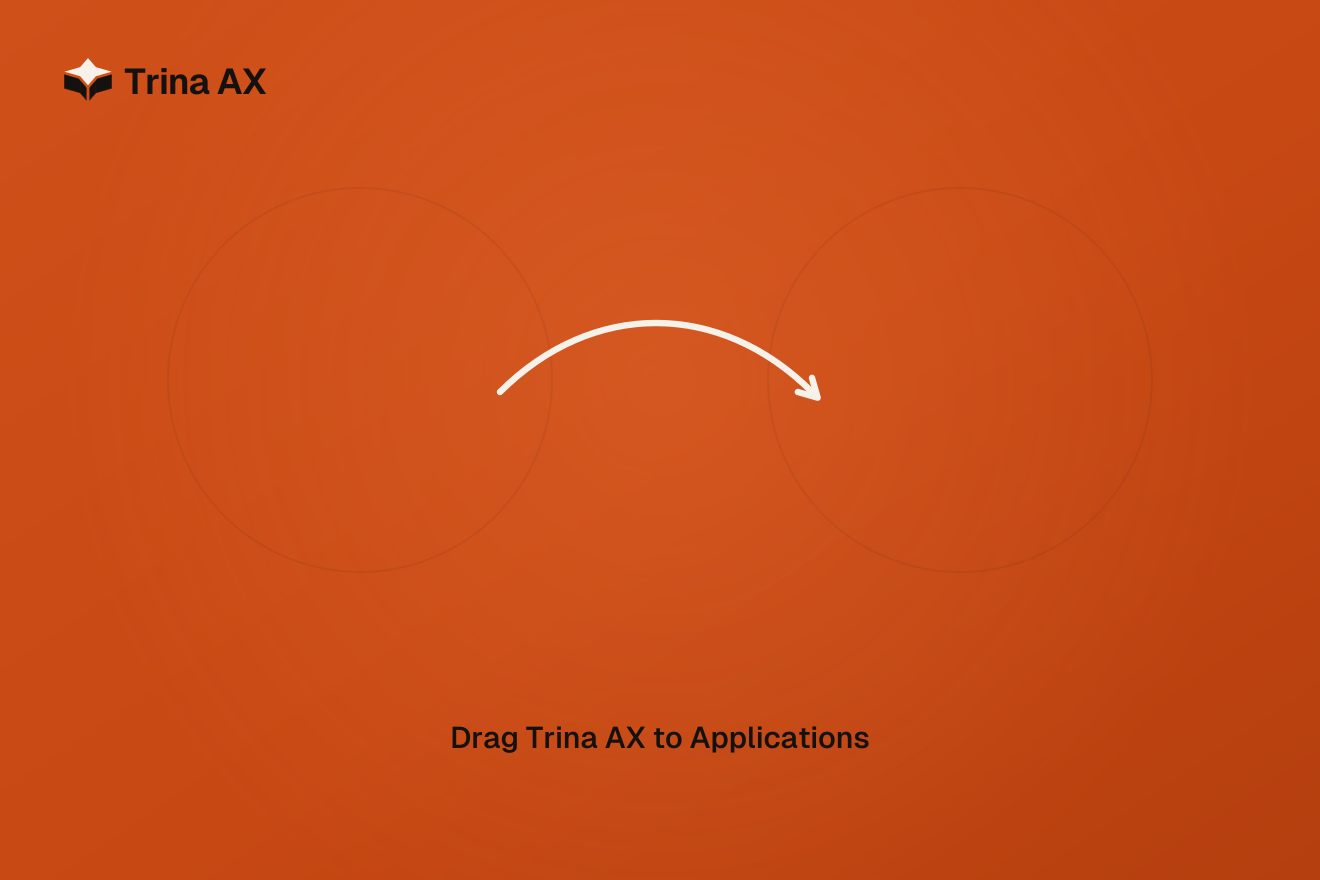
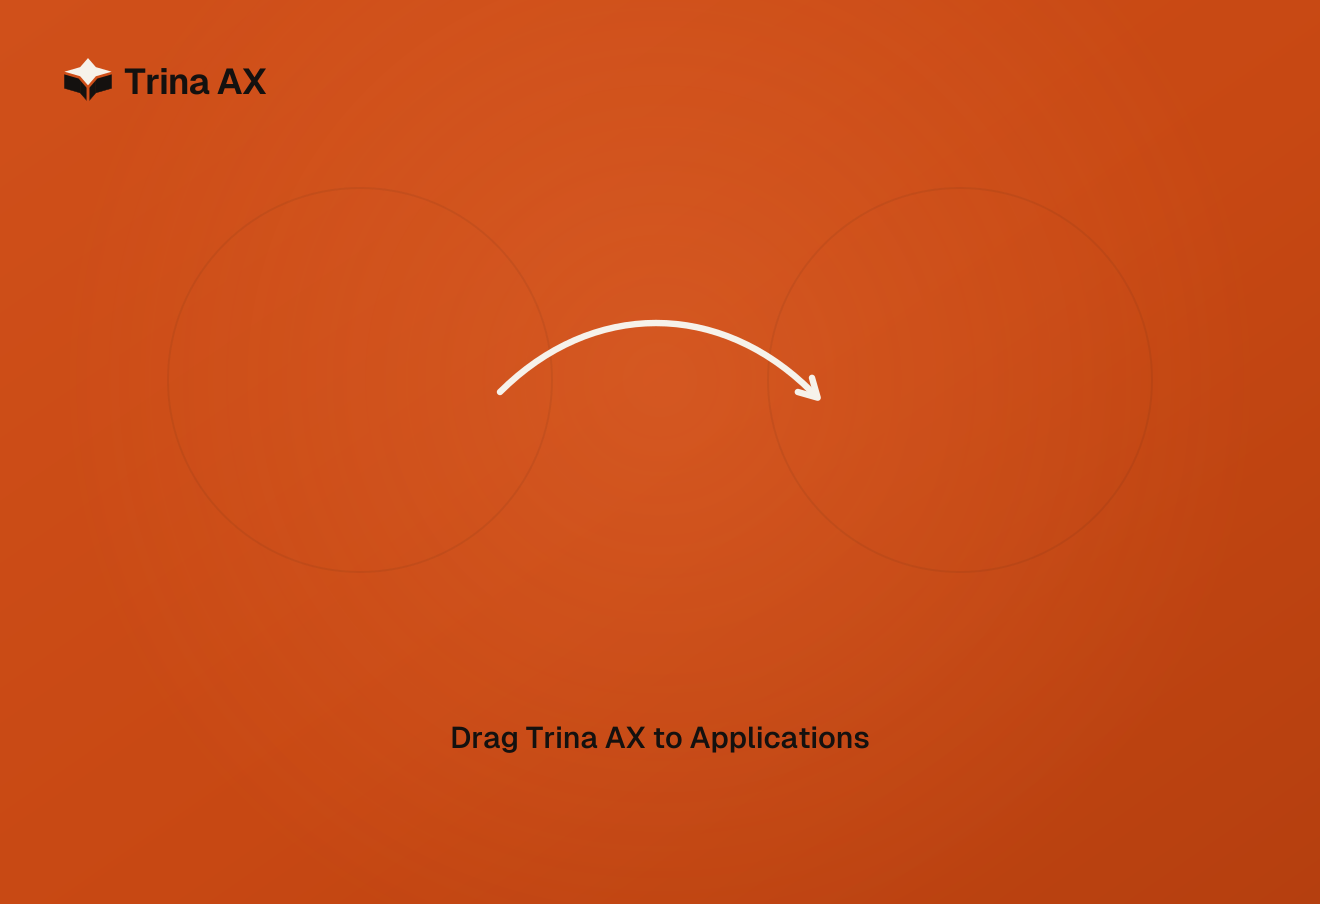
Mac dmg: on electron-builder 26.15.3, the window takes the picture's size
26.15.3 makes the window the background picture's size, title bar included, and ignores `window` when there is a
background. So no `window`, and the canvas is 660×452: the 420 points of art and 32 points of plain orange.

Changed region(s): [[0.3417, 0.7977, 0.6523, 0.8591], [0.3727, 0.3375, 0.6212, 0.4602], [0.0311, 0.0614, 0.2174, 0.1227]]

diff --git a/tests/unit/e-desktop-common.test.ts b/tests/unit/e-desktop-common.test.ts
@@ -1001,7 +1001,7 @@ describe('quitting', () => {
 
 describe('the Mac dmg window', () => {
   test('opens on the Trina background with the two icons over its spots', async () => {
-    type Dmg = { background: string; window: { width: number; height: number }; iconSize: number; contents: { x: number; y: number; type: string; path?: string }[] }
+    type Dmg = { background: string; window?: unknown; iconSize: number; contents: { x: number; y: number; type: string; path?: string }[] }
     const base = (await import('../../desktop/electron-builder.config')).default as { dmg: Dmg }
     const dmg = base.dmg
     const size = (f: string) => {
@@ -1012,10 +1012,10 @@ describe('the Mac dmg window', () => {
     expect(dmg.background).toBe('build-resources/background.png')
     const one = size(dmg.background), two = size(dmg.background.replace('.png', '@2x.png'))
     expect(two).toEqual({ w: one.w * 2, h: one.h * 2 })
-    // the window is as wide as the art; its height counts the title bar (32 points on macOS 26) and the art is taller
-    // than what shows, so no white edge on any system
-    expect(dmg.window.width).toBe(one.w)
-    expect(one.h).toBeGreaterThanOrEqual(dmg.window.height - 32)
+    // electron-builder makes the window the picture's size, title bar (32 points on macOS 26) included: no `window`, and
+    // the picture is the 420 points of art plus 32
+    expect(dmg.window).toBeUndefined()
+    expect(one).toEqual({ w: 660, h: 420 + 32 })
     // the app on the left, Applications on the right, on the art's two spots (scripts/dmg-background.svg)
     expect(dmg.contents).toEqual([
       { x: 180, y: 190, type: 'file' },

diff --git a/desktop/electron-builder.config.ts b/desktop/electron-builder.config.ts
@@ -63,14 +63,10 @@ export default {
     sign: false,
     title: `${PRODUCT.displayName} \${version}`,
     artifactName: `${A}-\${version}-mac-\${arch}.\${ext}`,
-    // the window it opens on: scripts/dmg-background.svg rendered at 660×440 and 1320×880 (background@2x.png, which
-    // electron-builder joins with this file into one retina TIFF). Finder takes the height with the title bar (32 points
-    // on macOS 26), so 452 shows the art's 420; the art runs 20 lower for the shorter title bar of older systems. The icon
-    // centres (points from the top left of the art) sit over the art's two spots.
+    // the window it opens on: scripts/dmg-background.svg rendered at 660×452 and 1320×904 (background@2x.png, which
+    // electron-builder joins with this file into one retina TIFF). electron-builder makes the window the picture's size,
+    // title bar included, so no `window` here; the art's spots are the icon centres below (points from its top left).
     background: 'build-resources/background.png',
-    // No x/y: with a background, electron-builder 26.0.12 ignores them and writes x 400, y (1440 - height) / 2 from the
-    // bottom of the screen; on a smaller screen macOS keeps the title bar below the menu bar.
-    window: { width: 660, height: 452 },
     iconSize: 128,
     iconTextSize: 12,
     contents: [

diff --git a/docs/AGENTS/plan/20261115-1422-dmg-background.md b/docs/AGENTS/plan/20261115-1422-dmg-background.md
@@ -18,10 +18,10 @@ wordmark top left, a cream arrow from the app to Applications, and "Drag Trina A
 In:
 - `desktop/scripts/dmg-background.svg`: the source art (text outlined from Geist, so it renders with no fonts), with
   the render command in the file, as `trina-icon.svg` does.
-- `desktop/build-resources/background.png` (660×440) and `background@2x.png` (1320×880), rendered with rsvg-convert.
-  The art is laid out on 660×420; the canvas runs 20 points lower in plain orange (see Result).
+- `desktop/build-resources/background.png` (660×452) and `background@2x.png` (1320×904), rendered with rsvg-convert.
+  The art is laid out on 660×420; the canvas runs 32 points lower in plain orange (see Result).
 - Base `dmg` settings in `desktop/electron-builder.config.ts` (the Developer ID config spreads them): background,
-  window size, icon size, label size, and the two icons' positions over the art.
+  icon size, label size, and the two icons' positions over the art.
 - The orange is a mid tone on purpose: Finder writes the icon names in black in light mode and white in dark mode, and
   the background cannot follow, so the names must read on it both ways (about 4.5:1 each).
 
@@ -46,13 +46,13 @@ sizes, the window and the icon spots); the dmg build and the two screenshots.
 
 ## Result
 
-Built as planned, with one change found in the real build (`dist:mac:arm64` on macOS 26.6, mounted read-only from a
-copy):
-- Finder takes the window size with the title bar: with 660×420 its window was 660×420 in all, so the art's bottom was
-  cut. The title bar is 32 points on macOS 26 (28 before), so the window is 660×452 and the canvas is 660×440, the extra
-  20 points plain orange, so an older system shows a little more orange instead of a white edge.
-- electron-builder 26.0.12 joins `background.png` and `background@2x.png` into one TIFF with `tiffutil -cathidpicheck`
-  (`.background/*.tiff` in the dmg holds 660×440 and 1320×880); the dmg's `.DS_Store` has the window bounds, icon size
-  128, label size 12 and the two icons at (180,190) and (480,190).
-- With a background, electron-builder ignores the window's x/y, so they are not set.
+Built as planned, with two changes found in real builds (mounted read-only from a copy, macOS 26.6):
+- electron-builder 26.0.12 makes the dmg as APFS with an old dmgbuild, and Finder showed no background at all, in our
+  dmg and in the released 0.5.7 dmg. With 26.15.3 (HFS+, newer dmgbuild) it shows. So this branch sits on the
+  electron-builder 26.15.3 update (its own PR, `chore/electron-builder-26-15`).
+- Finder counts the title bar in the window size (32 points on macOS 26, 28 before), and 26.15.3 makes the window the
+  picture's size and ignores `window` when there is a background. So there is no `window`, and the canvas is 660×452:
+  the 420 points of art and 32 points of plain orange below, so an older system shows a little more orange.
+- electron-builder joins `background.png` and `background@2x.png` into one TIFF (`tiffutil -cathidpicheck`); the
+  dmg's `.DS_Store` has icon size 128, label size 12 and the two icons at (180,190) and (480,190).
 - Geist's notice is in NOTICE and docs/THIRD-PARTY-NOTICES.md (outlines only, no font file).
